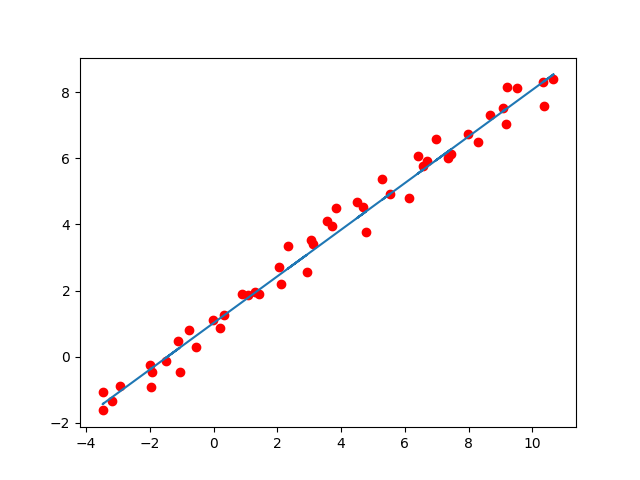
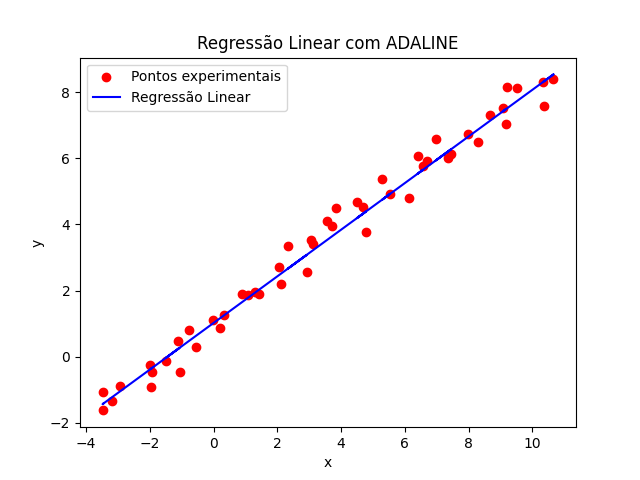
melhorando a formatação do grafico

diff --git a/trabalho_06/main.py b/trabalho_06/main.py
@@ -10,8 +10,11 @@ def main():
     
     # Plotar os dados
     plt.scatter(base_dados['x'], base_dados['y'], color='red', label='Pontos experimentais')  # Pontos medidos
-    plt.plot(base_dados['x'], saida)
-
+    plt.plot(base_dados['x'], saida, color='blue', label='Regressão Linear')
+    plt.xlabel('x')
+    plt.ylabel('y')
+    plt.title('Regressão Linear com ADALINE')
+    plt.legend()
     # Adicionar título e rótulos aos eixos
     plt.savefig('grafico.png')
 
